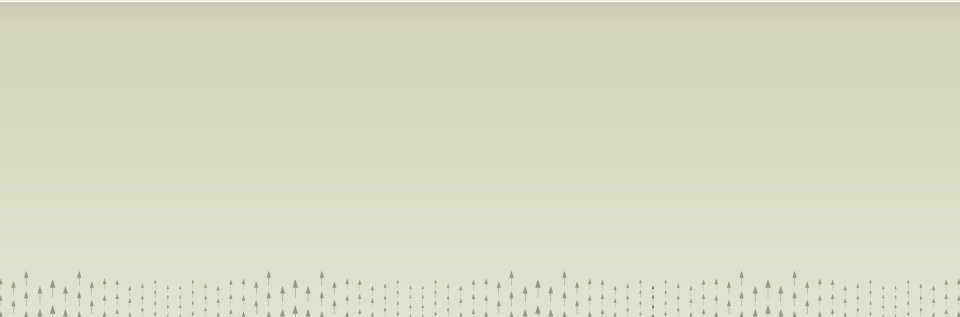
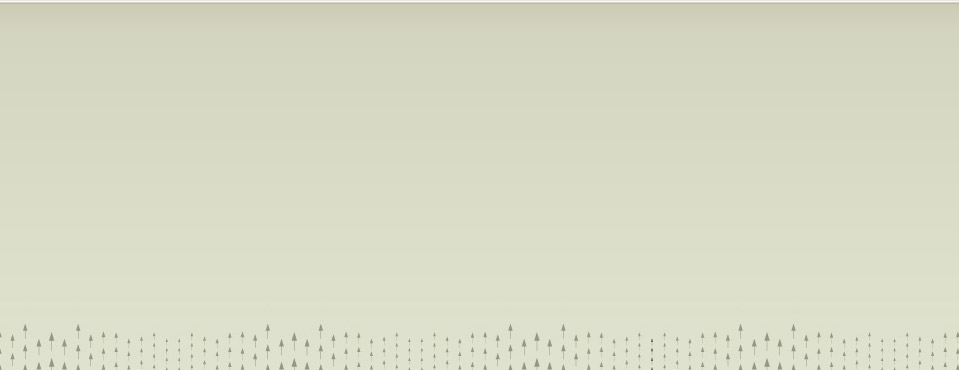
Twitter account added to footer [Issue #60]

diff --git a/media/main.css b/media/main.css
@@ -436,8 +436,8 @@ div.flatpage table#download_list { width: auto; }
 
 /* footer */
 
-#footerWrapper { background: url(images/bg_footer.jpg) bottom center repeat-x; height: 317px; padding-top: 120px;}
-#sunlight { background: url(images/bg_sunlightLogo.png) top left no-repeat; width: 193px; height: 57px; margin-bottom: 30px;}
+#footerWrapper { background: url(images/bg_footer.jpg) bottom center repeat-x; height: 370px; padding-top: 120px;}
+#sunlight { background: url(images/bg_sunlightLogo.png) top left no-repeat; width: 193px; height: 57px; margin-bottom: 50px;}
 
 footer #submit button { background: url(images/btn_submitFooter.png) top left no-repeat; width: 85px; height: 30px;}
 footer #submit button:hover { background: url(images/btn_submitFooter.png) bottom left no-repeat; }
@@ -445,10 +445,10 @@ footer input { float: left; margin-right: 10px;}
 /* make footer links grey w/ underline */
 footer a, footer a:active, footer a:visited { color: #8d8781; text-decoration: underline; }
 
-#recources { background: url(images/bg_resources.png) top left no-repeat; height: 121px; width: 633px; margin-left: -35px; margin-top: -5px; margin-bottom: 30px;}
+#recources { background: url(images/bg_resources.png) top left no-repeat; height: 166px; width: 633px; margin-left: -35px; margin-top: -5px; margin-bottom: 30px;}
 #recources h4 { background: url(images/bg_resourcesTitle.png) top left no-repeat; margin-top: -15px; width: 190px; height: 32px; position: absolute; padding: 13px 0 0 50px; margin-left: 10px;}
 
-#footerLt { width: 280px; margin-right: 30px; padding-right: 30px; float: left; background: url(images/bg_borderFooter.jpg) top right repeat-y; padding-top: 30px;}
+#footerLt { width: 280px; margin-right: 30px; padding-right: 30px; float: left; background: url(images/bg_borderFooter.jpg) top right repeat-y; padding-top: 50px; margin-bottom: 20px;}
 #footerLt p { font-size: 85%; line-height: 18px; color: #8d8781;}
 
 #footerRt { float: left;}
@@ -467,7 +467,28 @@ footer dl { padding: 50px 0 0 35px;}
     width: 332px;
 }
 
-
+.openTwit{
+}
+.openTwit{
+    background: url('images/twitterBird.png') left 5px no-repeat;
+    margin-left: 35px;
+    padding-left: 25px;
+    display: block;
+    float: left;
+}
+footer .openTwit a, footer .openTwit a:active, footer .openTwit a:visited{
+    color: #817C78;
+    border-bottom: 1px dotted #817C78;
+}
+.openTwit span{
+    font-size: 95%;
+    width: 420px;
+    float: left;
+    display: block;
+    margin-top: 3px;
+    color: #97948E;
+    font-style: italic;
+}
 
 
 

diff --git a/templates/billy/web/public/base.html b/templates/billy/web/public/base.html
@@ -140,6 +140,12 @@
                             </ul>
                         </dd>
                     </dl>
+					<div class="openTwit clear">
+						<h6 class="inlineTitle">
+							<a href="https://twitter.com/openstates">@openstates:</a>
+						</h6>
+						<span>want to be notified when state bills (and more) that interest you are updated? check out http://scout.sunlightfoundation.com</span>
+					</div>
                 </div>
                 <h4 class="withTip h5">Like This Project and Want to Discover Others Like It?</h4>
                 <span class="tip">Join the Sunlight Foundation's open government community to learn more</span>
